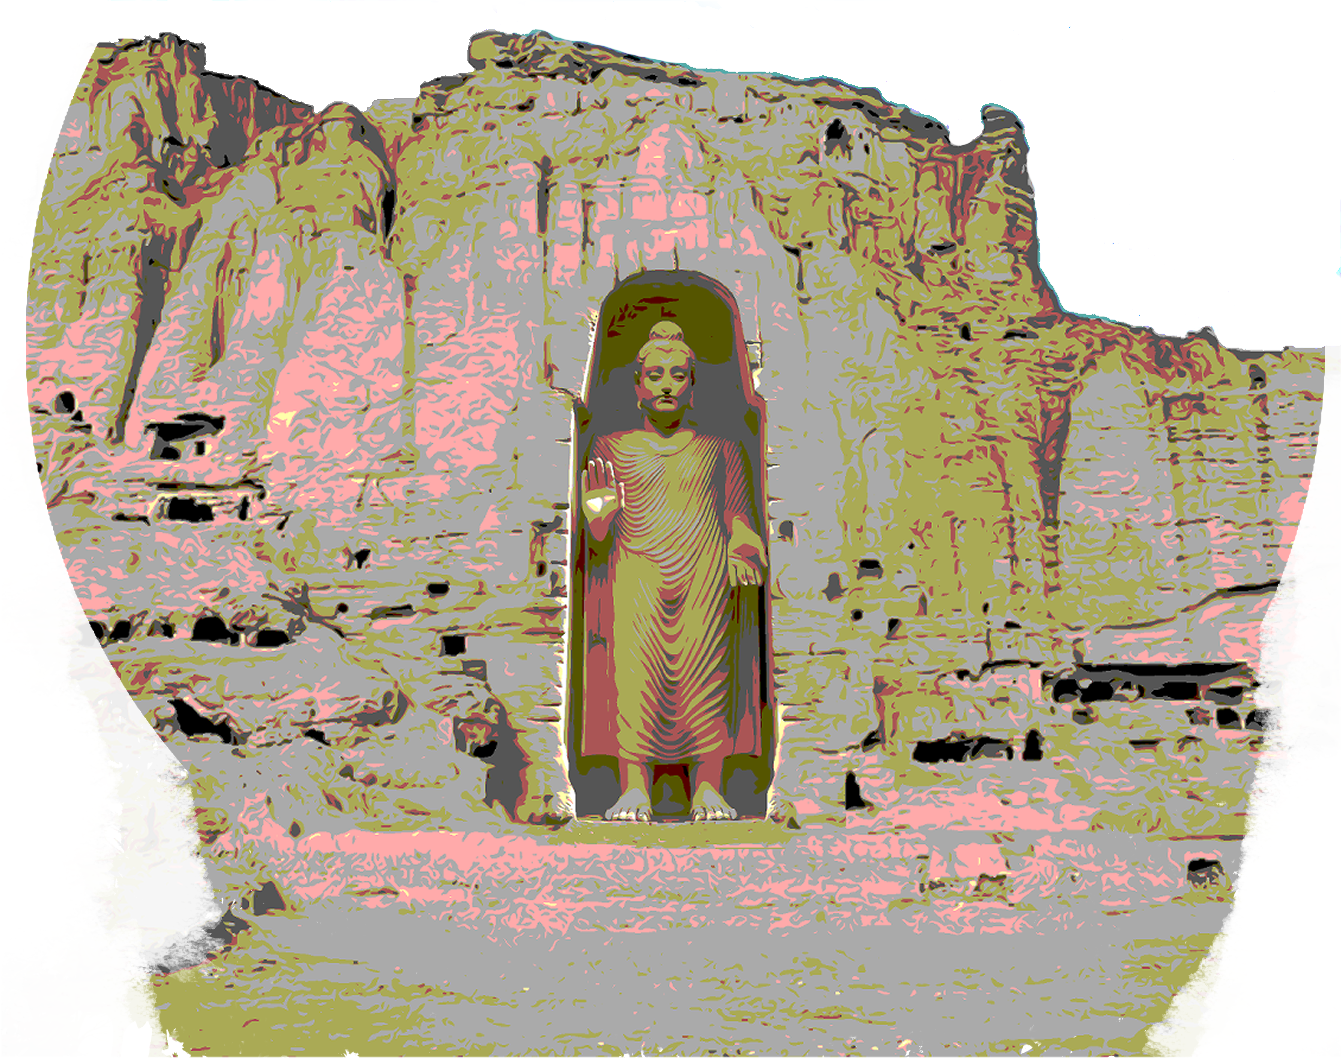
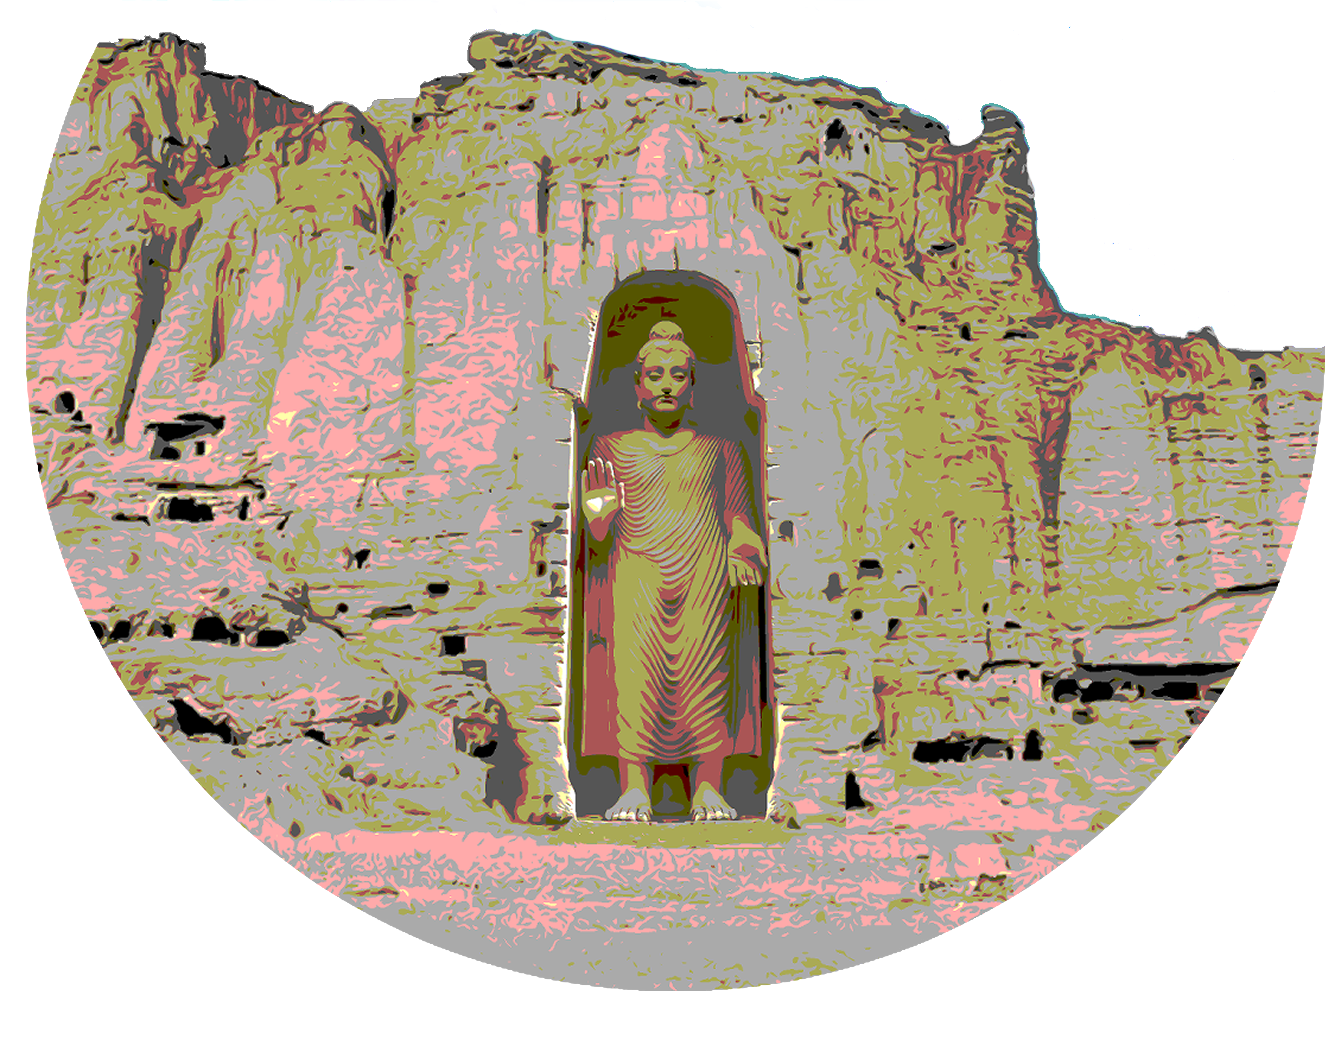
animation modifcation

Changed region(s): [[0.0917, 0.5926, 0.9784, 1.0], [0.9478, 0.5302, 0.9784, 0.5614], [0.0611, 0.5926, 0.0917, 0.6238]]

diff --git a/src/components/MainIllustration/MainIllustration.js b/src/components/MainIllustration/MainIllustration.js
@@ -1,8 +1,6 @@
 import * as motion from "motion/react-client";
 import "./MainIllustration.css";
 import BuddhaStatueSrc from "../../images/asset_main/buddha_statue.png";
-import rightTreeSrc from "../../images/asset_main/right_tree.png";
-import leftTreeSrc from "../../images/asset_main/left_tree.png";
 
 import Lottie from "react-lottie";
 import ScrollIcon from "../../lotties/mouse_animation";
@@ -18,38 +16,34 @@ export default function MainIllustration() {
   };
   return (
     <div className="illustration">
-      <motion.div
-        initial={{ opacity: 0 }}
-        whileInView={{ opacity: 1 }}
-        style={bluebg}
-      ></motion.div>
-      {/* <motion.div> */}
-      <motion.img
-        src={BuddhaStatueSrc}
-        alt="Buddha statue"
-        style={buddhaImageStyle}
-        initial={{ translateY: 100 }}
-        whileInView={{ translateY: 0 }}
-        transition={{ duration: 0.3 }}
-      />
-      <motion.img
-        src={rightTreeSrc}
-        alt="Buddha statue"
-        style={rightThreeImageStyle}
-        initial={{ translateX: 220 }}
-        whileInView={{ translateX: 120 }}
-        transition={{ duration: 0.3 }}
-      />
-      <motion.img
-        src={leftTreeSrc}
-        alt="Buddha statue"
-        style={leftThreeImageStyle}
-        initial={{ translateX: -200 }}
-        whileInView={{ translateX: -180 }}
-        transition={{ duration: 0.3 }}
-      />
-      {/* </motion.div> */}
-      <Lottie options={defaultOptions} height={40} width={40} />
+      <div className="illustration_left">
+        <motion.h1>The greate Buddha statue of Bamiyan</motion.h1>
+        <motion.p>
+          Lorem ipsum dolor sit amet, consectetur adipiscing elit, sed do
+          eiusmod tempor incididunt ut labore et dolore magna aliqua. Ut enim ad
+          minim veniam, quis nostrud exercitation ullamco laboris nisi ut
+          aliquip ex ea commodo consequat. Duis aute irure dolor in
+          reprehenderit in voluptate velit esse cillum dolore eu fugiat nulla
+          pariatur. Excepteur sint occaecat cupidatat non proident, sunt in
+          culpa qui officia deserunt mollit anim id est laborum.
+        </motion.p>
+      </div>
+      <div className="illustration_right">
+        <motion.div
+          initial={{ opacity: 0 }}
+          whileInView={{ opacity: 1 }}
+          style={bluebg}
+        ></motion.div>
+        <motion.img
+          src={BuddhaStatueSrc}
+          alt="Buddha statue"
+          style={buddhaImageStyle}
+          initial={{ translateY: 100 }}
+          whileInView={{ translateY: 0 }}
+          transition={{ duration: 1.3 }}
+        />
+      </div>
+      {/* <Lottie options={defaultOptions} height={40} width={40} /> */}
     </div>
   );
 }
@@ -65,17 +59,5 @@ const buddhaImageStyle = {
   position: "absolute",
   width: 618,
   left: "49.3%",
-  top: "18%",
-};
-const rightThreeImageStyle = {
-  position: "absolute",
-  width: 518,
-  left: "49.3%",
-  top: "18%",
-};
-const leftThreeImageStyle = {
-  position: "absolute",
-  width: 518,
-  left: "49.3%",
-  top: "18%",
+  top: "30%",
 };

diff --git a/src/components/MainIllustration/MainIllustration.css b/src/components/MainIllustration/MainIllustration.css
@@ -1,7 +1,16 @@
 .illustration {
   position: relative;
   /* padding: 100px; */
+  padding-top: 190px;
   width: 100%;
-  height: 800px;
-  background: rgb(123, 153, 153);
+  height: 100vh;
+  background: #fff;
+  display: flex;
+  flex-direction: row;
+}
+.illustration__right {
+  float: right;
+}
+.illustration__right {
+  float: left;
 }

diff --git a/src/components/header/header.js b/src/components/header/header.js
@@ -55,7 +55,7 @@ const Header = () => {
         whileInView={{ y: 0 }}
         initial="hidden"
         animate="visible"
-        transition={{ duration: 0.5, delay: 0.25 }}
+        transition={{ duration: 1.5, delay: 0.25 }}
       >
         Bamiyan The land of wonders
       </motion.h1>
